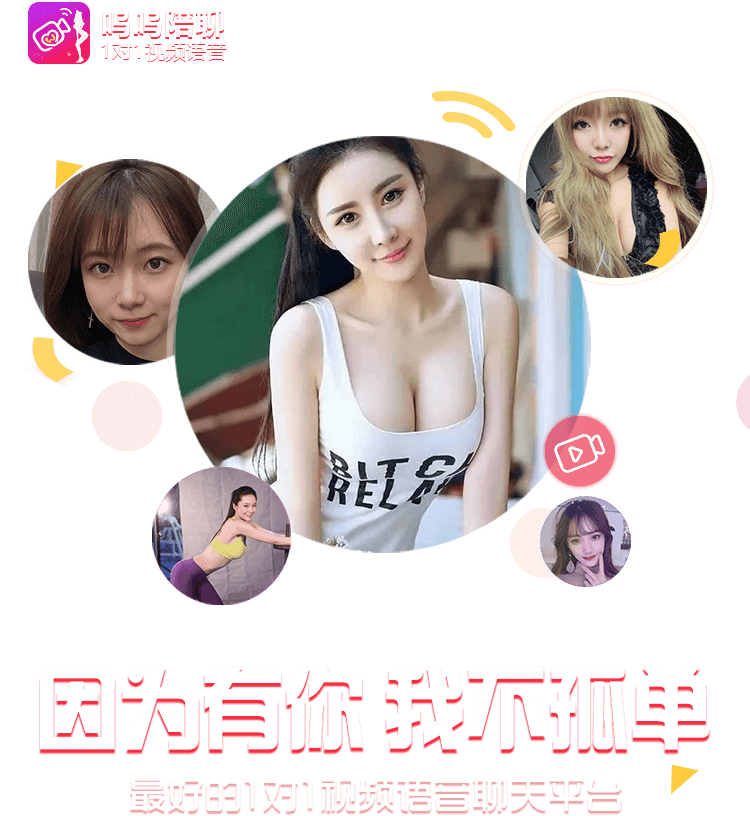
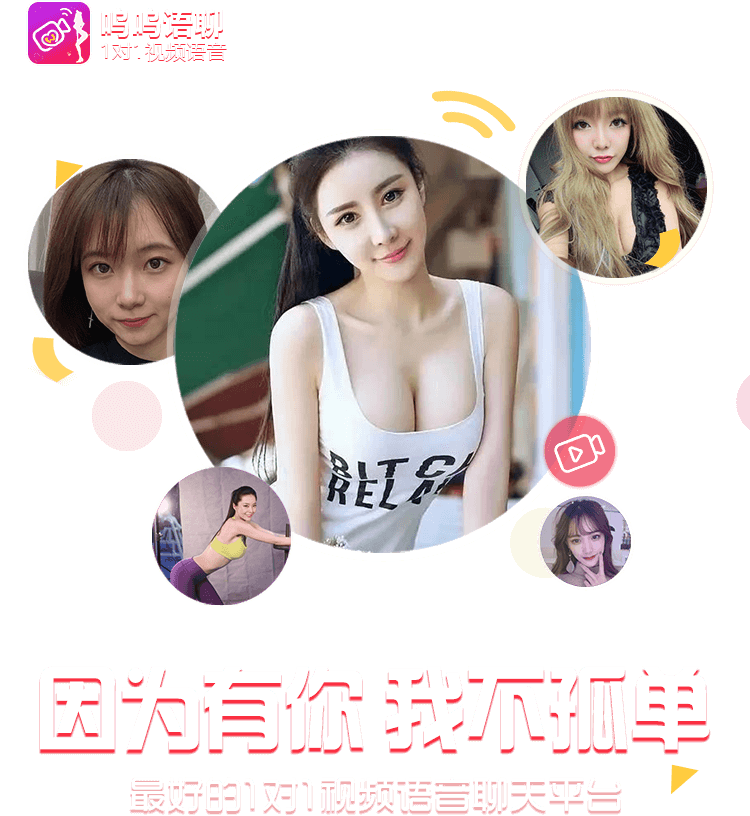
1. 修改官网图片文件 2. 修改购买vip价格

Changed region(s): [[0.1227, 0.0, 0.3067, 0.0613], [0.276, 0.2451, 0.3373, 0.3064], [0.2147, 0.6434, 0.2453, 0.7047]]

diff --git a/social_service/src/main/java/com/fmisser/gtc/social/service/impl/ConsumeServiceImpl.java b/social_service/src/main/java/com/fmisser/gtc/social/service/impl/ConsumeServiceImpl.java
@@ -22,7 +22,7 @@ public class ConsumeServiceImpl implements ConsumeService {
     @Override
     public int buyVip(User user) throws ApiException {
 
-        final BigDecimal vipPrice = BigDecimal.valueOf(888);
+        final BigDecimal vipPrice = BigDecimal.valueOf(8888);
 
         Asset asset = assetRepository.findByUserId(user.getId());
 //        if (asset.getVipLevel() > 0) {
